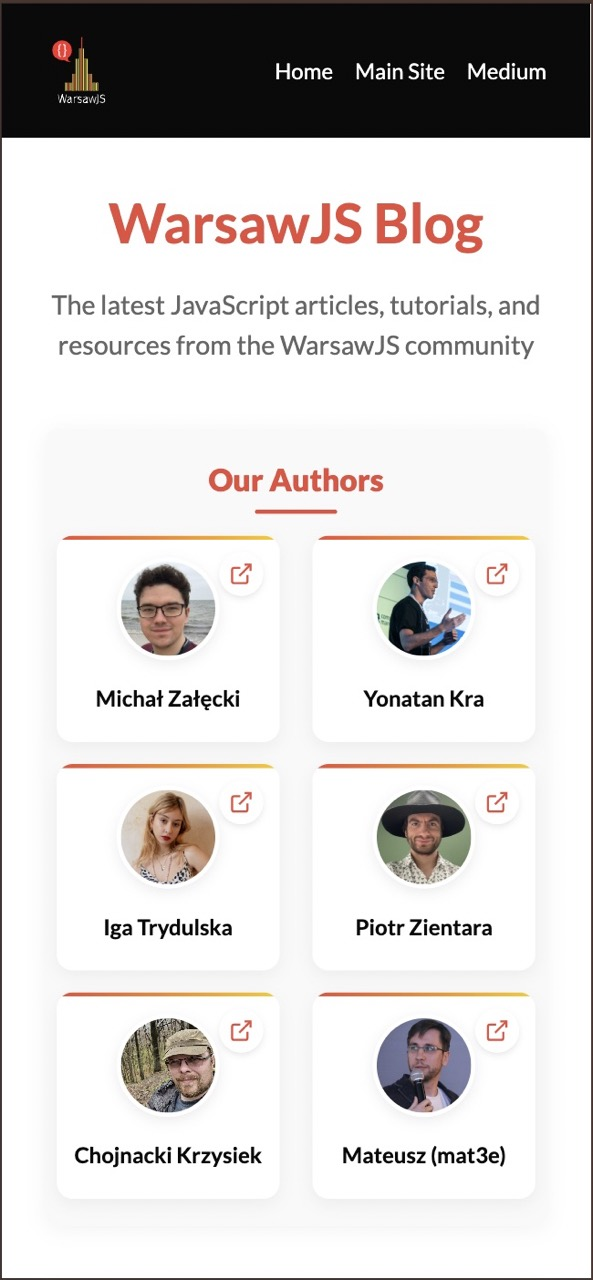
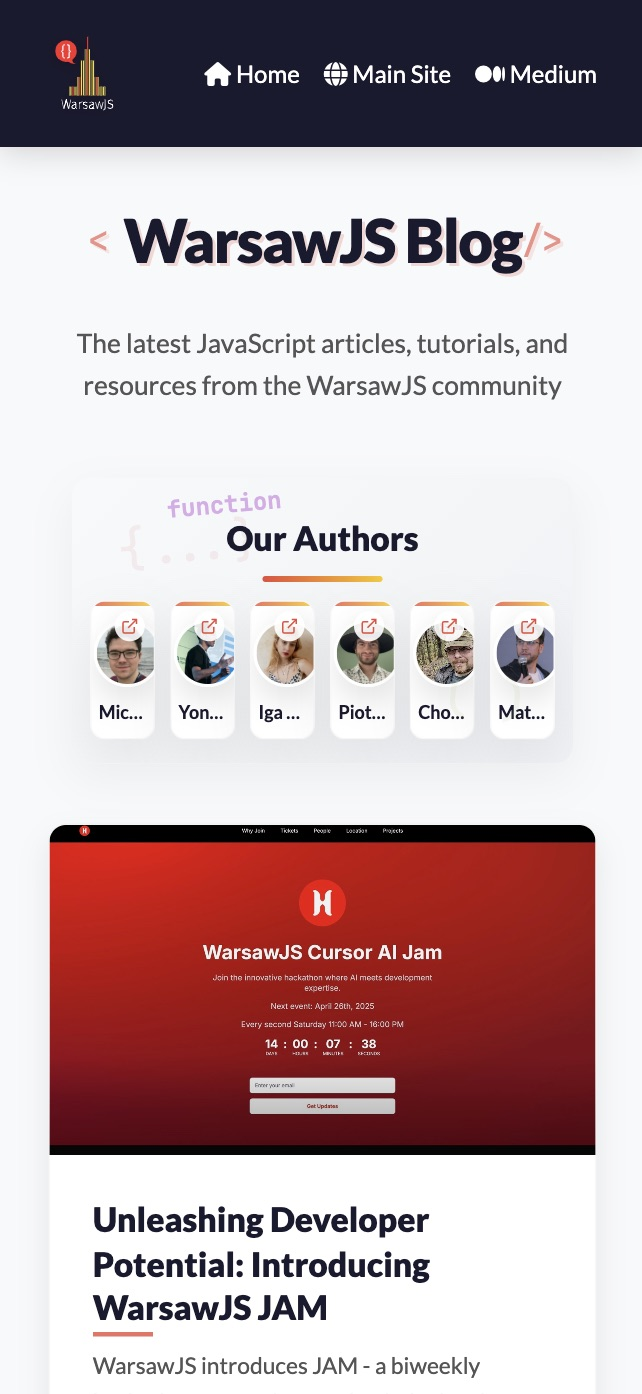
update: styling and og:images

diff --git a/script.js b/script.js
@@ -110,51 +110,58 @@ const mockPosts = [
   }
 ];
 
-// Format date helper function
+// Helper functions
 function formatDate(dateString) {
   const options = { year: 'numeric', month: 'short', day: 'numeric' };
   return new Date(dateString).toLocaleDateString(undefined, options);
 }
 
+function isAuthorMatch(postAuthor, filterAuthor) {
+  return (
+    postAuthor === filterAuthor || 
+    // Handle cases where the order of names is different
+    (filterAuthor === "Chojnacki Krzysiek" && postAuthor === "Krzysiek Chojnacki") ||
+    (filterAuthor === "Krzysiek Chojnacki" && postAuthor === "Chojnacki Krzysiek") ||
+    // Handle 'Mateusz (mat3e)' vs 'Mateusz (mat3e)'
+    (filterAuthor.includes("Mateusz") && postAuthor.includes("Mateusz"))
+  );
+}
+
 // Create blog post element
 function createBlogPostElement(post) {
-  // Check if this is the JAM post and add the jam image to the link element
-  const isJamPost = post.title.includes('JAM') && post.thumbnail.includes('jam.jpeg');
-  const linkAttributes = isJamPost ? 
-    `href="${post.link}" target="_blank" itemprop="url" style="background-image: url('${post.thumbnail}'); background-size: contain; background-repeat: no-repeat; background-position: right bottom;"` : 
-    `href="${post.link}" target="_blank" itemprop="url"`;
-
   return `
     <article class="card" itemscope itemtype="https://schema.org/BlogPosting">
-      <a ${linkAttributes}>
-        <div class="image-container">
-          <img src="${post.thumbnail || 'public/images/default-thumbnail.jpg'}" alt="${post.title}" itemprop="image">
-        </div>
-        <div class="content">
-          <h2 class="card-title" itemprop="headline">${post.title}</h2>
-          <p class="description" itemprop="description">${post.description}</p>
-          <div class="author">
-            ${post.author?.image ? `
-              <div class="author-image">
-                <img src="${post.author.image}" alt="${post.author.name}" itemprop="image">
+      <a href="${post.link}" target="_blank" itemprop="url">
+        <div class="card-inner">
+          <div class="image-container">
+            <img src="${post.thumbnail || 'public/images/default-thumbnail.jpg'}" alt="${post.title}" itemprop="image">
+          </div>
+          <div class="content">
+            <h2 class="card-title" itemprop="headline">${post.title}</h2>
+            <p class="description" itemprop="description">${post.description}</p>
+            <meta itemprop="publisher" content="WarsawJS">
+            ${post.categories ? `
+              <div class="categories" style="display: none;">
+                ${post.categories.map(category => `<meta itemprop="keywords" content="${category}">`).join('')}
               </div>
             ` : ''}
-            <span itemprop="author" itemscope itemtype="https://schema.org/Person" class="post-author-name" onclick="filterByAuthor('${post.author?.name || 'WarsawJS'}')">
-              <meta itemprop="name" content="${post.author?.name || 'WarsawJS'}">
-              ${post.author?.name || 'WarsawJS'}
-            </span>
-            ${post.pubDate ? `
-              <span class="date">
-                <meta itemprop="datePublished" content="${post.pubDate}">
-                ${formatDate(post.pubDate)}
-              </span>
-            ` : ''}
           </div>
-          <meta itemprop="publisher" content="WarsawJS">
-          ${post.categories ? `
-            <div class="categories" style="display: none;">
-              ${post.categories.map(category => `<meta itemprop="keywords" content="${category}">`).join('')}
+        </div>
+        <div class="card-footer">
+          ${post.author?.image ? `
+            <div class="author-image">
+              <img src="${post.author.image}" alt="${post.author.name}" itemprop="image">
             </div>
+          ` : ''}
+          <span itemprop="author" itemscope itemtype="https://schema.org/Person" class="post-author-name" onclick="filterByAuthor('${post.author?.name || 'WarsawJS'}')">
+            <meta itemprop="name" content="${post.author?.name || 'WarsawJS'}">
+            ${post.author?.name || 'WarsawJS'}
+          </span>
+          ${post.pubDate ? `
+            <span class="date">
+              <meta itemprop="datePublished" content="${post.pubDate}">
+              ${formatDate(post.pubDate)}
+            </span>
           ` : ''}
         </div>
       </a>
@@ -185,6 +192,11 @@ function initBlog() {
     addStructuredData(posts);
     
     // Add click events to author names in posts
+    setupAuthorClickEvents();
+  }
+  
+  // Setup click events for author names
+  function setupAuthorClickEvents() {
     document.querySelectorAll('.post-author-name').forEach(authorElement => {
       if (authorElement) {
         authorElement.addEventListener('click', function() {
@@ -199,39 +211,44 @@ function initBlog() {
   }
 
   // Set up author card click events
-  const authorCards = document.querySelectorAll('.author-card');
-  if (authorCards && authorCards.length > 0) {
-    authorCards.forEach(card => {
-      if (card) {
-        // Handle click events
-        card.addEventListener('click', function(e) {
-          // Don't trigger if clicking the speaker-link
-          if (e.target.closest('.speaker-link')) {
-            return;
-          }
-          
-          const authorName = this.getAttribute('data-author');
-          if (authorName) {
-            filterByAuthor(authorName);
-          }
-        });
-        
-        // Add keyboard support for accessibility
-        card.addEventListener('keydown', function(e) {
-          // Handle Enter or Space key
-          if (e.key === 'Enter' || e.key === ' ') {
-            e.preventDefault();
+  function setupAuthorCards() {
+    const authorCards = document.querySelectorAll('.author-card');
+    if (authorCards && authorCards.length > 0) {
+      authorCards.forEach(card => {
+        if (card) {
+          // Handle click events
+          card.addEventListener('click', function(e) {
+            // Don't trigger if clicking the speaker-link
+            if (e.target.closest('.speaker-link')) {
+              return;
+            }
+            
             const authorName = this.getAttribute('data-author');
             if (authorName) {
               filterByAuthor(authorName);
             }
-          }
-        });
-      }
-    });
-  } else {
-    console.warn('No author cards found in the document');
+          });
+          
+          // Add keyboard support for accessibility
+          card.addEventListener('keydown', function(e) {
+            // Handle Enter or Space key
+            if (e.key === 'Enter' || e.key === ' ') {
+              e.preventDefault();
+              const authorName = this.getAttribute('data-author');
+              if (authorName) {
+                filterByAuthor(authorName);
+              }
+            }
+          });
+        }
+      });
+    } else {
+      console.warn('No author cards found in the document');
+    }
   }
+  
+  // Initialize author cards
+  setupAuthorCards();
 
   // Initial render
   renderPosts(currentPosts);
@@ -265,10 +282,7 @@ function initBlog() {
       }
       
       // Remove filter indicator if it exists
-      const filterIndicator = document.getElementById('filter-indicator');
-      if (filterIndicator) {
-        filterIndicator.remove();
-      }
+      removeFilterIndicator();
       
       return;
     }
@@ -293,14 +307,7 @@ function initBlog() {
     // Find posts by this author (handle different name formats)
     const filteredPosts = mockPosts.filter(post => {
       const postAuthor = post.author?.name || '';
-      const match = (
-        postAuthor === authorName || 
-        // Handle cases where the order of names is different
-        (authorName === "Chojnacki Krzysiek" && postAuthor === "Krzysiek Chojnacki") ||
-        (authorName === "Krzysiek Chojnacki" && postAuthor === "Chojnacki Krzysiek") ||
-        // Handle 'Mateusz (mat3e)' vs 'Mateusz (mat3e)'
-        (authorName.includes("Mateusz") && postAuthor.includes("Mateusz"))
-      );
+      const match = isAuthorMatch(postAuthor, authorName);
       
       if (match) {
         console.log(`Match found: "${postAuthor}" matches "${authorName}"`);
@@ -361,10 +368,7 @@ function initBlog() {
         });
         
         // Remove filter indicator if it exists
-        const filterIndicator = document.getElementById('filter-indicator');
-        if (filterIndicator) {
-          filterIndicator.remove();
-        }
+        removeFilterIndicator();
       }
       
       if (!searchTerm) {
@@ -385,6 +389,14 @@ function initBlog() {
     });
   }
 
+  // Helper function to remove filter indicator
+  function removeFilterIndicator() {
+    const filterIndicator = document.getElementById('filter-indicator');
+    if (filterIndicator) {
+      filterIndicator.remove();
+    }
+  }
+  
   // Add structured data for SEO
   function addStructuredData(posts) {
     // Remove existing structured data if any

diff --git a/styles.css b/styles.css
@@ -1,4 +1,5 @@
 :root {
+  /* Colors */
   --background: #f8f9fa;
   --foreground: #171717;
   --warsawjs-red: #e74c3c;
@@ -10,13 +11,25 @@
   --card-background: #ffffff;
   --border-color: #e0e0e0;
   --accent-color: #f0f0f0;
+  
+  /* Typography */
   --code-font: 'JetBrains Mono', 'Fira Code', monospace;
+  
+  /* Shadows */
   --card-shadow: 0 10px 20px rgba(0, 0, 0, 0.08);
   --card-hover-shadow: 0 15px 30px rgba(231, 76, 60, 0.15);
+  
+  /* Syntax highlighting colors */
   --syntax-color-1: #e06c75;
   --syntax-color-2: #98c379;
   --syntax-color-3: #61afef;
   --syntax-color-4: #c678dd;
+  
+  /* Common gradients */
+  --warsawjs-gradient: linear-gradient(90deg, var(--warsawjs-red), var(--warsawjs-yellow));
+  
+  /* Common transitions */
+  --hover-transition: all 0.3s cubic-bezier(0.175, 0.885, 0.32, 1.275);
 }
 
 * {
@@ -227,6 +240,25 @@ p {
               box-shadow 0.4s cubic-bezier(0.175, 0.885, 0.32, 1.275);
   position: relative;
   border: 1px solid rgba(0,0,0,0.05);
+  display: flex;
+  flex-direction: column;
+  height: 100%;
+}
+
+.card a {
+  text-decoration: none;
+  color: inherit;
+  display: flex;
+  flex-direction: column;
+  height: 100%;
+}
+
+.card-inner {
+  flex: 1;
+  display: flex;
+  flex-direction: column;
+  position: relative;
+  z-index: 1;
 }
 
 .card:before {
@@ -236,7 +268,7 @@ p {
   left: 0;
   right: 0;
   height: 4px;
-  background: linear-gradient(90deg, var(--warsawjs-red), var(--warsawjs-yellow));
+  background: var(--warsawjs-gradient);
   z-index: 1;
   opacity: 0;
   transition: opacity 0.3s ease;
@@ -245,6 +277,7 @@ p {
 .card:hover {
   transform: translateY(-10px);
   box-shadow: var(--card-hover-shadow);
+  transition: var(--hover-transition);
 }
 
 .card:hover:before {
@@ -288,9 +321,13 @@ p {
   filter: brightness(1.05);
 }
 
+
 .content {
   padding: 1.8rem;
   position: relative;
+  flex: 1;
+  display: flex;
+  flex-direction: column;
 }
 
 .card-title {
@@ -324,16 +361,20 @@ p {
   color: #555;
   margin-bottom: 1.5rem;
   line-height: 1.6;
+  flex-grow: 1;
 }
 
-.author {
+.card-footer {
   display: flex;
   align-items: center;
   font-size: 0.9rem;
   color: #666;
-  margin-top: auto;
-  padding-top: 1rem;
+  padding: 1rem 1.8rem;
   border-top: 1px solid #f0f0f0;
+  background-color: var(--card-background);
+  margin-top: auto;
+  position: relative;
+  z-index: 2;
 }
 
 .author-image {
@@ -438,7 +479,7 @@ p {
   transform: translateX(-50%);
   width: 80px;
   height: 4px;
-  background: linear-gradient(90deg, var(--warsawjs-red), var(--warsawjs-yellow));
+  background: var(--warsawjs-gradient);
   border-radius: 2px;
 }
 
@@ -463,7 +504,8 @@ p {
 
 .author-card:hover {
   transform: translateY(-10px) scale(1.02);
-  box-shadow: 0 20px 40px rgba(231, 76, 60, 0.15);
+  box-shadow: var(--card-hover-shadow);
+  transition: var(--hover-transition);
 }
 
 .author-card:before {
@@ -473,8 +515,9 @@ p {
   left: 0;
   width: 100%;
   height: 5px;
-  background: linear-gradient(90deg, var(--warsawjs-red), var(--warsawjs-yellow));
+  background: var(--warsawjs-gradient);
   opacity: 0.8;
+  transition: height 0.3s ease;
 }
 
 .author-card:after {
@@ -747,7 +790,7 @@ p {
   left: 0;
   width: 100%;
   height: 5px;
-  background: linear-gradient(90deg, var(--warsawjs-red), var(--warsawjs-yellow));
+  background: var(--warsawjs-gradient);
   z-index: 1;
 }
 
